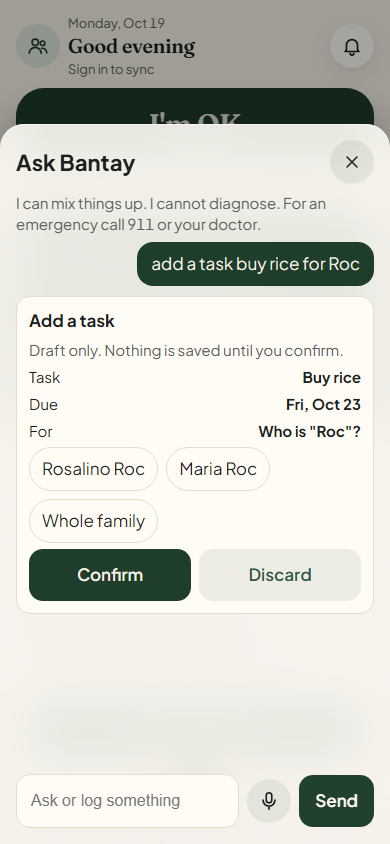
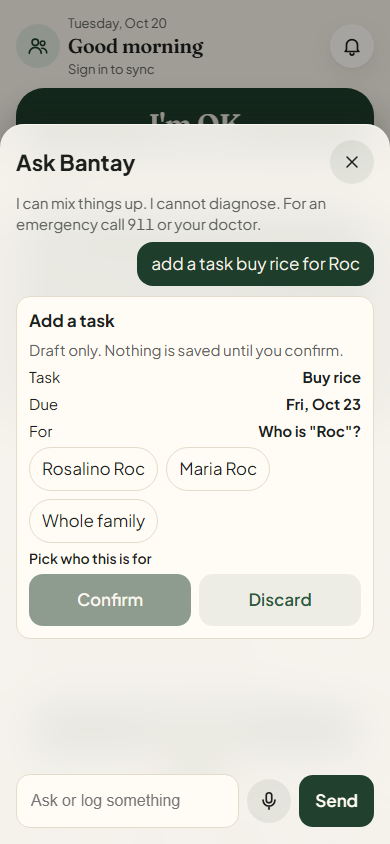
E-ask fix 2: task card Confirm looks disabled until a person is picked, plus a Pick who this is for hint; shots retaken

diff --git a/src/features/assistant/Assistant.tsx b/src/features/assistant/Assistant.tsx
@@ -113,6 +113,7 @@ function TaskCard({ card, people }: { card: Extract<Card, { kind: 'task' }>; peo
         {options.map((p) => <button key={p.id} type="button" className="as-chip" aria-pressed={choice === p.id} onClick={() => setChoice(p.id)}>{p.name}</button>)}
         <button type="button" className="as-chip" aria-pressed={choice === ''} onClick={() => setChoice('')}>Whole family</button>
       </div>}
+      {needPick && <span className="as-hint" role="status">Pick who this is for</span>}
       {err && <span role="alert" className="as-err">{err}</span>}
       <div className="as-actions">
         <button className="btn" disabled={state === 'saving' || !a || needPick} onClick={confirm}>Confirm</button>

diff --git a/src/features/assistant/Assistant.test.tsx b/src/features/assistant/Assistant.test.tsx
@@ -170,6 +170,7 @@ describe('Assistant round 3', () => {
     await screen.findByText('Who is "Roc"?')
     expect((screen.getByRole('button', { name: 'Confirm' }) as HTMLButtonElement).disabled).toBe(true)
     expect(screen.queryByRole('button', { name: 'Lola' })).toBeNull()
+    expect(screen.getByText('Pick who this is for')).toBeTruthy()
     fireEvent.click(screen.getByRole('button', { name: 'Rosalino Roc' }))
     fireEvent.click(screen.getByRole('button', { name: 'Confirm' }))
     await screen.findByText(/Task added/)

diff --git a/src/features/assistant/assistant.css b/src/features/assistant/assistant.css
@@ -30,3 +30,5 @@
 .as-chip-static { display: inline-flex; align-items: center; min-height: 36px; font-size: 14px; }
 .as-chips .as-chip, .as-people .as-chip, .as-src a.as-chip { display: inline-flex; align-items: center; text-decoration: none; }
 .as-people, .as-src { display: flex; flex-wrap: wrap; gap: 8px; align-items: center; }
+.as-actions .btn:disabled { opacity: .5; cursor: not-allowed; }
+.as-hint { font-size: 14px; font-weight: 600; color: var(--ink); }
